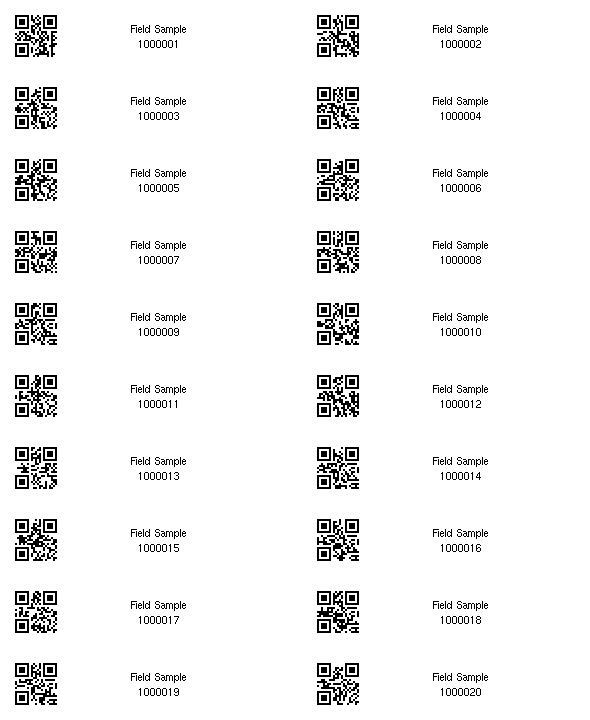
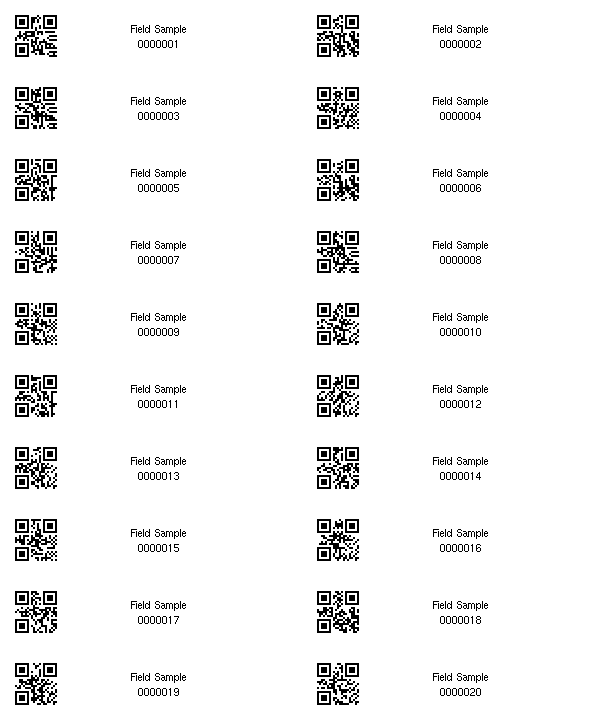
Add files via upload

diff --git a/qr_code_label.py b/qr_code_label.py
@@ -10,7 +10,7 @@ QR codes formatted for printing on Avery 8161 labels.
 George S. Williams  physicist@websterling.com  07/2018
 '''
 
-start = 1000001
+start = 1
 num_sheets = 4
 label_text = "Field Sample"
 
@@ -22,7 +22,8 @@ for j in range(1, num_sheets + 1):
 
     for i in range(0, 20):
         count = count + 1
-        qr = QRCode(count)
+        seq = str(count).zfill(7)
+        qr = QRCode(seq)
         qr.png('qr.png', scale=2)
 
         qr_img = Image.open('qr.png', 'r')
@@ -34,7 +35,7 @@ for j in range(1, num_sheets + 1):
 
         d = ImageDraw.Draw(label)
         d.text((130, 22), label_text, font=font, fill=(0, 0, 0))
-        d.text((138, 37), str(count), font=font, fill=(0, 0, 0))
+        d.text((138, 37), seq, font=font, fill=(0, 0, 0))
 
         h_offset = int(i % 2 * 302)
         row = int(abs(i / 2))
